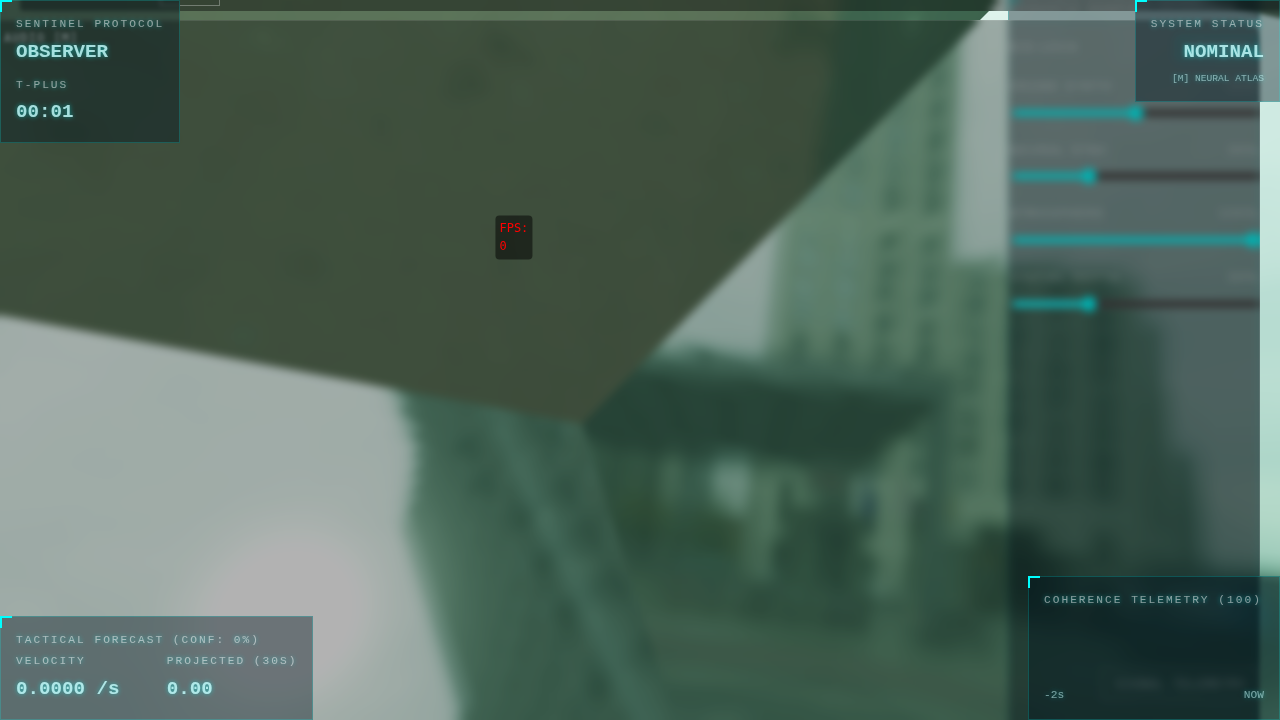
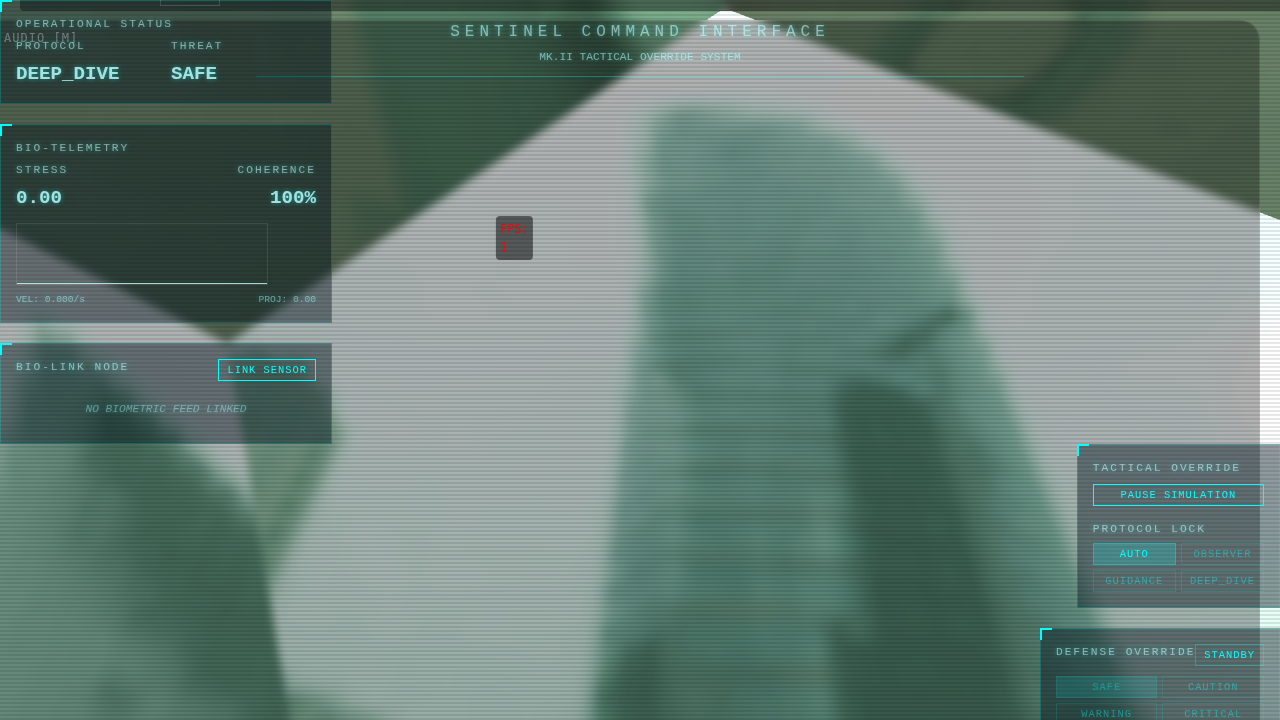
feat: Implement Sentinel Mk.II with Bio-Link and Tactical Override
- Added `BioLinkNode` to Aegis HUD for Web Bluetooth heart rate monitoring.
- Implemented `TacticalOverride` controls for simulation pause and protocol locking.
- Enhanced `useSentinelStore` to support manual protocol overrides.
- Updated `SentinelDefenseSystem` to respect new override states.
- Styled new HUD elements with CRT scanlines and tactical aesthetics.
- Updated unit tests for Aegis system to reflect UI changes.

diff --git a/src/components/Aegis/AegisCommandCenter.tsx b/src/components/Aegis/AegisCommandCenter.tsx
@@ -4,17 +4,30 @@ import { useAegisData } from './useAegisData';
 import { useSentinelStore } from '../../stores/useSentinelStore';
 import { useAudioStore } from '../../stores/useAudioStore';
 import { useNarrativeStore } from '../../stores/useNarrativeStore';
-import { THREAT_LEVELS } from '../../constants';
+import { useBioLinkStore } from '../../stores/useBioLinkStore';
+import { bioLinkService } from '../../services/BioLinkService';
+import { THREAT_LEVELS, SENTINEL_PROTOCOLS } from '../../constants';
 
 // Import Types
 import type { ThreatLevel } from '../../constants';
 import type { NarrativeArc } from '../../stores/useNarrativeStore';
 
+type Protocol = keyof typeof SENTINEL_PROTOCOLS;
+
 export const AegisCommandCenter = () => {
   const metrics = useAegisData();
-  const { setManualOverride, setThreatLevel, isManualOverride } = useSentinelStore();
+  const {
+    setManualOverride,
+    setThreatLevel,
+    isManualOverride,
+    lockedProtocol,
+    setLockedProtocol,
+    isSimulationPaused,
+    setSimulationPaused
+  } = useSentinelStore();
   const { setManualMode, setManualFrequency, manualMode, layerVolumes, setLayerVolume } = useAudioStore();
   const { setArc } = useNarrativeStore();
+  const { isConnected, isConnecting, heartRate, hrv, deviceName } = useBioLinkStore();
 
   const {
     protocol,
@@ -48,7 +61,7 @@ export const AegisCommandCenter = () => {
   }, [history]);
 
   return (
-    <div className={styles.container} style={{ pointerEvents: 'none' }}>
+    <div className={`${styles.container} ${styles.scanline} ${styles.flicker}`} style={{ pointerEvents: 'none' }}>
       {/* HEADER */}
       <div style={{
           position: 'absolute', top: 20, left: '50%', transform: 'translateX(-50%)',
@@ -67,7 +80,9 @@ export const AegisCommandCenter = () => {
           <div style={{ display: 'grid', gridTemplateColumns: '1fr 1fr', gap: '10px' }}>
             <div>
                 <span className={styles.label}>PROTOCOL</span>
-                <div className={styles.value}>{protocol}</div>
+                <div className={styles.value} style={{ color: lockedProtocol ? '#ffaa00' : 'inherit' }}>
+                    {lockedProtocol ? `${lockedProtocol} [LOCKED]` : protocol}
+                </div>
             </div>
             <div>
                 <span className={styles.label}>THREAT</span>
@@ -98,10 +113,94 @@ export const AegisCommandCenter = () => {
           </div>
         </div>
 
+        {/* BIO-LINK NODE (NEW) */}
+        <div className={styles.panel}>
+           <div style={{ display: 'flex', justifyContent: 'space-between', alignItems: 'center', marginBottom: '10px' }}>
+               <span className={styles.label}>BIO-LINK NODE</span>
+               <button
+                  onClick={() => isConnected ? bioLinkService.disconnect() : bioLinkService.connect()}
+                  disabled={isConnecting}
+                  className={styles.tacticalButton}
+                  style={{
+                      color: isConnected ? '#00ff00' : (isConnecting ? '#ffff00' : 'cyan'),
+                      borderColor: isConnected ? '#00ff00' : (isConnecting ? '#ffff00' : 'cyan')
+                  }}
+               >
+                   {isConnecting ? 'SCANNING...' : (isConnected ? 'DISCONNECT' : 'LINK SENSOR')}
+               </button>
+           </div>
+
+           {isConnected ? (
+               <div style={{ display: 'grid', gridTemplateColumns: '1fr 1fr', gap: '10px' }}>
+                   <div>
+                       <span className={styles.label}>HEART RATE</span>
+                       <div className={styles.value}>{heartRate} <span style={{fontSize: '0.6rem'}}>BPM</span></div>
+                   </div>
+                   <div>
+                       <span className={styles.label}>HRV (RMSSD)</span>
+                       <div className={styles.value}>{hrv} <span style={{fontSize: '0.6rem'}}>MS</span></div>
+                   </div>
+                   <div style={{ gridColumn: 'span 2', fontSize: '0.6rem', opacity: 0.7, marginTop: '5px' }}>
+                       DEVICE: {deviceName}
+                   </div>
+               </div>
+           ) : (
+               <div style={{ fontSize: '0.7rem', opacity: 0.5, fontStyle: 'italic', textAlign: 'center', padding: '10px 0' }}>
+                   NO BIOMETRIC FEED LINKED
+               </div>
+           )}
+        </div>
+
       </div>
 
       {/* RIGHT COLUMN: CONTROLS */}
       <div style={{ display: 'flex', flexDirection: 'column', gap: '20px', alignItems: 'flex-end', pointerEvents: 'auto' }}>
+
+        {/* TACTICAL OVERRIDE (NEW) */}
+        <div className={styles.panel}>
+            <span className={styles.label}>TACTICAL OVERRIDE</span>
+
+            <div style={{ marginBottom: '15px' }}>
+                <button
+                    onClick={() => setSimulationPaused(!isSimulationPaused)}
+                    className={styles.tacticalButton}
+                    style={{
+                        width: '100%',
+                        background: isSimulationPaused ? 'rgba(255, 50, 50, 0.2)' : 'transparent',
+                        borderColor: isSimulationPaused ? '#ff3333' : 'cyan',
+                        color: isSimulationPaused ? '#ff3333' : 'cyan'
+                    }}
+                >
+                    {isSimulationPaused ? '⚠ SIMULATION FROZEN ⚠' : 'PAUSE SIMULATION'}
+                </button>
+            </div>
+
+            <span className={styles.label}>PROTOCOL LOCK</span>
+            <div style={{ display: 'grid', gridTemplateColumns: '1fr 1fr', gap: '5px', marginTop: '5px' }}>
+                 <button
+                    onClick={() => setLockedProtocol(null)}
+                    className={styles.tacticalButton}
+                    style={{ opacity: !lockedProtocol ? 1 : 0.5, background: !lockedProtocol ? 'rgba(0,255,255,0.2)' : 'transparent' }}
+                 >
+                     AUTO
+                 </button>
+                 {Object.keys(SENTINEL_PROTOCOLS).map(p => (
+                     <button
+                        key={p}
+                        onClick={() => setLockedProtocol(p as Protocol)}
+                        className={styles.tacticalButton}
+                        style={{
+                            opacity: lockedProtocol === p ? 1 : 0.5,
+                            background: lockedProtocol === p ? 'rgba(255, 170, 0, 0.2)' : 'transparent',
+                            borderColor: lockedProtocol === p ? '#ffaa00' : 'rgba(0,255,255,0.3)',
+                            color: lockedProtocol === p ? '#ffaa00' : 'rgba(0,255,255,0.8)'
+                        }}
+                     >
+                         {p}
+                     </button>
+                 ))}
+            </div>
+        </div>
 
         {/* DEFENSE OVERRIDE */}
         <div className={styles.panel}>
@@ -109,11 +208,10 @@ export const AegisCommandCenter = () => {
                <span className={styles.label}>DEFENSE OVERRIDE</span>
                <button
                   onClick={() => setManualOverride(!isManualOverride)}
+                  className={styles.tacticalButton}
                   style={{
                       background: isManualOverride ? 'cyan' : 'transparent',
                       color: isManualOverride ? '#000' : 'cyan',
-                      border: '1px solid cyan',
-                      cursor: 'pointer', fontSize: '0.7rem', padding: '2px 8px'
                   }}
                >
                    {isManualOverride ? 'ACTIVE' : 'STANDBY'}
@@ -125,10 +223,11 @@ export const AegisCommandCenter = () => {
                    <button
                        key={level}
                        onClick={() => isManualOverride && setThreatLevel(level as ThreatLevel)}
+                       className={styles.tacticalButton}
                        style={{
                            background: threatLevel === level ? 'rgba(0,255,255,0.3)' : 'transparent',
                            border: '1px solid rgba(0,255,255,0.3)',
-                           color: 'inherit', fontSize: '0.6rem', padding: '5px', cursor: isManualOverride ? 'pointer' : 'default'
+                           cursor: isManualOverride ? 'pointer' : 'default'
                        }}
                    >
                        {level}
@@ -145,12 +244,8 @@ export const AegisCommandCenter = () => {
                     <button
                         key={arc}
                         onClick={() => setArc(arc as NarrativeArc)}
-                        style={{
-                            background: 'transparent',
-                            border: '1px solid rgba(200,200,255,0.3)',
-                            color: 'rgba(200,200,255,0.8)',
-                            fontSize: '0.6rem', padding: '5px', flex: 1, cursor: 'pointer'
-                        }}
+                        className={styles.tacticalButton}
+                        style={{ flex: 1 }}
                     >
                         {arc}
                     </button>
@@ -164,11 +259,10 @@ export const AegisCommandCenter = () => {
                <span className={styles.label}>SONIC MANIPULATION</span>
                <button
                   onClick={() => setManualMode(!manualMode)}
+                  className={styles.tacticalButton}
                   style={{
                       background: manualMode ? 'cyan' : 'transparent',
                       color: manualMode ? '#000' : 'cyan',
-                      border: '1px solid cyan',
-                      cursor: 'pointer', fontSize: '0.7rem', padding: '2px 8px'
                   }}
                >
                    {manualMode ? 'MANUAL' : 'AUTO'}

diff --git a/src/components/SentinelDefenseSystem.tsx b/src/components/SentinelDefenseSystem.tsx
@@ -65,6 +65,10 @@ export const SentinelDefenseSystem = () => {
   }, [activateCounterMeasure, deactivateCounterMeasure]);
 
   useFrame((_, delta) => {
+    // TACTICAL OVERRIDE CHECK
+    const isSimulationPaused = useSentinelStore.getState().isSimulationPaused;
+    if (isSimulationPaused) return;
+
     const stress = useResonanceStore.getState().currentStress;
     const activeProtocol = useSentinelStore.getState().activeProtocol;
     const setDecayRate = useResonanceStore.getState().setDecayRate;
@@ -93,7 +97,24 @@ export const SentinelDefenseSystem = () => {
         lastThreatCheck.current = now;
     }
 
-    // 3. Protocol Switching (Original Sentinel Logic)
+    // 3. Protocol Switching Logic
+
+    // TACTICAL LOCK CHECK
+    const lockedProtocol = useSentinelStore.getState().lockedProtocol;
+    if (lockedProtocol) {
+        if (activeProtocol !== lockedProtocol) {
+            setProtocol(lockedProtocol);
+            analytics.track('Sentinel Protocol Locked', { protocol: lockedProtocol });
+            // Apply protocol settings immediately
+            if (setDecayRate) setDecayRate(SENTINEL_PROTOCOLS[lockedProtocol].decayRate);
+            setEntrainmentFreq(SENTINEL_ENTRAINMENT_MAP[lockedProtocol]);
+        }
+        return; // Bypass all automated switching
+    }
+
+    // SKIP AUTOMATION IF MANUAL OVERRIDE IS ACTIVE (Fixes Legacy Logic Gap)
+    if (isManualOverride) return;
+
     const isProjectedHigh = projected > 0.8 && confidence > 0.7;
 
     if (stress > 0.8 || isProjectedHigh) {

diff --git a/src/stores/useSentinelStore.ts b/src/stores/useSentinelStore.ts
@@ -13,9 +13,15 @@ interface SentinelState {
   activeCounterMeasures: CounterMeasure[];
   isManualOverride: boolean;
 
+  // New Tactical Controls
+  lockedProtocol: Protocol | null;
+  isSimulationPaused: boolean;
+
   setProtocol: (protocol: Protocol) => void;
   setThreatLevel: (level: ThreatLevel) => void;
   setManualOverride: (enabled: boolean) => void;
+  setLockedProtocol: (protocol: Protocol | null) => void;
+  setSimulationPaused: (paused: boolean) => void;
   activateCounterMeasure: (measure: CounterMeasure) => void;
   deactivateCounterMeasure: (measure: CounterMeasure) => void;
   reset: () => void;
@@ -28,6 +34,9 @@ export const useSentinelStore = create<SentinelState>((set) => ({
   threatLevel: 'SAFE',
   activeCounterMeasures: [],
   isManualOverride: false,
+
+  lockedProtocol: null,
+  isSimulationPaused: false,
 
   setProtocol: (protocol) => set((state) => {
     if (state.activeProtocol === protocol) return state;
@@ -43,6 +52,10 @@ export const useSentinelStore = create<SentinelState>((set) => ({
   }),
 
   setManualOverride: (enabled) => set({ isManualOverride: enabled }),
+
+  setLockedProtocol: (protocol) => set({ lockedProtocol: protocol }),
+
+  setSimulationPaused: (paused) => set({ isSimulationPaused: paused }),
 
   activateCounterMeasure: (measure) => set((state) => {
     if (state.activeCounterMeasures.includes(measure)) return state;

diff --git a/src/components/Aegis/Aegis.module.css b/src/components/Aegis/Aegis.module.css
@@ -113,3 +113,63 @@
   padding: 20px 40px;
   background: rgba(0,0,0,0.7);
 }
+
+/* CRT EFFECTS */
+.scanline {
+  background: linear-gradient(
+    to bottom,
+    rgba(255,255,255,0),
+    rgba(255,255,255,0) 50%,
+    rgba(0,0,0,0.1) 50%,
+    rgba(0,0,0,0.1)
+  );
+  background-size: 100% 4px;
+  animation: scanlineScroll 0.2s linear infinite;
+}
+
+@keyframes scanlineScroll {
+  0% { background-position: 0 0; }
+  100% { background-position: 0 4px; }
+}
+
+.flicker {
+  animation: crtFlicker 0.15s infinite;
+}
+
+@keyframes crtFlicker {
+  0% { opacity: 0.95; }
+  50% { opacity: 1; }
+  100% { opacity: 0.98; }
+}
+
+/* TACTICAL COMPONENTS */
+.tacticalButton {
+  background: transparent;
+  border: 1px solid rgba(0,255,255,0.3);
+  color: cyan;
+  font-family: 'Courier New', monospace;
+  font-size: 0.65rem;
+  letter-spacing: 1px;
+  padding: 4px 8px;
+  cursor: pointer;
+  transition: all 0.2s ease;
+  text-transform: uppercase;
+}
+
+.tacticalButton:hover:not(:disabled) {
+  background: rgba(0,255,255,0.1);
+  box-shadow: 0 0 10px rgba(0,255,255,0.3);
+  border-color: rgba(0,255,255,0.8);
+}
+
+.tacticalButton:active:not(:disabled) {
+  background: rgba(0,255,255,0.3);
+  transform: translateY(1px);
+}
+
+.tacticalButton:disabled {
+  opacity: 0.5;
+  cursor: not-allowed;
+  border-color: rgba(255,255,255,0.1);
+  color: rgba(255,255,255,0.3);
+}

diff --git a/src/tests/components/AegisSystem.test.tsx b/src/tests/components/AegisSystem.test.tsx
@@ -55,7 +55,8 @@ describe('AegisSystem', () => {
 
     // Check for a known text element from AegisCommandCenter
     expect(screen.getByText('SENTINEL COMMAND INTERFACE')).toBeInTheDocument();
-    expect(screen.getByText('OBSERVER')).toBeInTheDocument();
+    // Use getAllByText because "OBSERVER" appears in both Status and Protocol Lock sections
+    expect(screen.getAllByText('OBSERVER').length).toBeGreaterThan(0);
   });
 
   it('toggles off when H is pressed again', () => {
